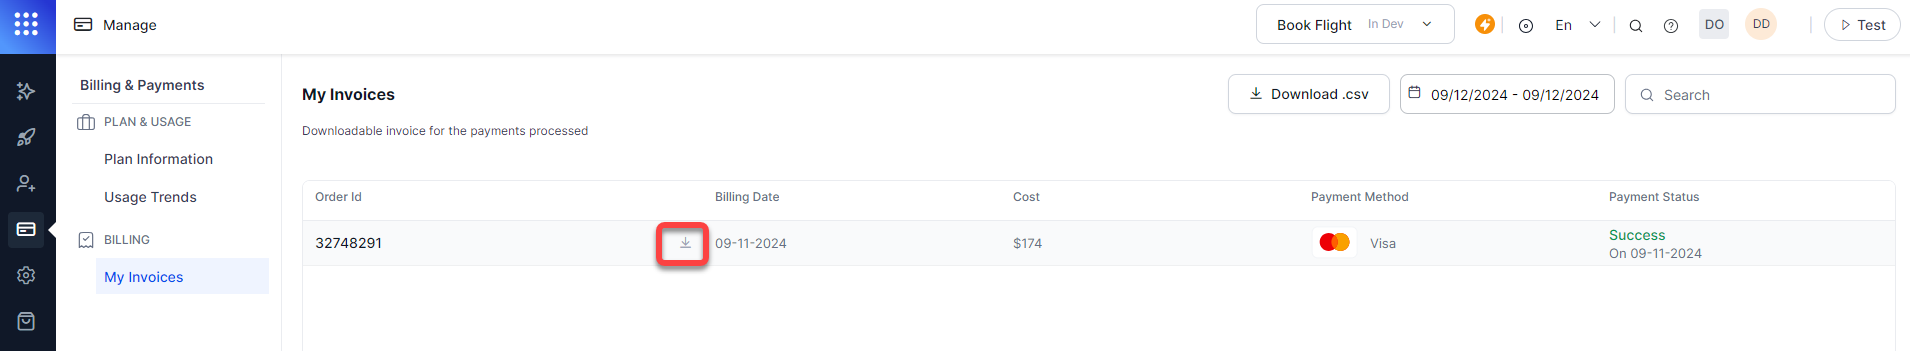
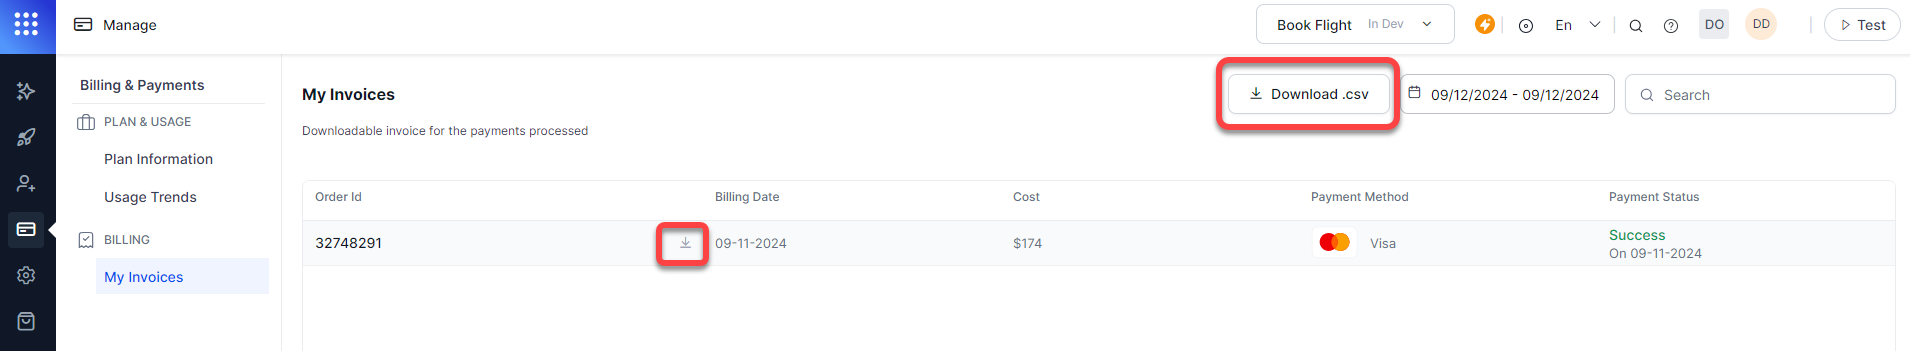
Agent AI integration updates (#67)
* updated release notes

* updated release notes

* 11.5.0 updates

* RN_3.5.0 formatting correction

* updated images

* updated images

* Rn edits

* docs updated

* updated images

* updates

* RN updates

* teams

* conversation logs

* formatting

* conversation logs

* done

* adding tocs

* toc

* table test

* table update

* formatting fixes

* link to RN

* test

* link to RN

* test md table

* RN linking

* minor update

* table

* RN links

* docs update

* fixing link issues

* done

* release notes update

* Rate limit

* minor update

* rn

* link updated

* toc

* minor updates

* 11.5.0 updates

* Indentation issue in yml file

* updating the RN links

* updating RN links

* RN_3.5.0 links update

* TOC update

* image alignment updated

* release notes updated

* images added

* api formatting

* updated images

* TOC update

* minor update

* updated doc-Defining a Table Report

* minor edits

* minor edits

* updated the doc "Bot management"

* allignment correction

* Update message-node-img2-generate-report.png

* updated images

* minor updates

* Update message-node-img2-generate-report.png

* tables

* updates

* updates

* updates

* txt update

* Update accplatform(12).png

* image revised

* revised RN

* APIs list

* minor update

* TOC update for APIs list

* apis list formatting fixes

* APIs list formatting fixes

* API list formatting

* api list

* Update accplatform(3).png

* release notes links update

* RN link fixes
[…]

Changed region(s): [[0.6178, 0.1425, 0.7414, 0.3989]]

diff --git a/docs/xo/contactcenter/integrations/talkdesk/kore-iva-integration-with-talkdesk.md b/docs/xo/contactcenter/integrations/talkdesk/kore-iva-integration-with-talkdesk.md
@@ -36,22 +36,18 @@ The following steps are initiated after a call is established between a user and
 
 This section explains the configuration steps needed to integrate Kore IVA integration with Talkdesk.
 
-### Step 1: Associate an App within an Experience Flow
+### Step 1: Create and attach a Flow with a Phone Number
 
-An _experience flow _is a step-by-step process that helps you define the end-to-end customer experience at a contact center for each communication channel. Experience Flows can be built using the Experience Flow Designer. [Know more](https://docs.kore.ai/smartassist/experience-flows/flow-designer/){:target="_blank"}.
-
-### Step 2: Attach that Experience Flow with a Phone Number
-
-A _flow_ is a step-by-step process that helps you define the end-to-end customer experience for each communication channel. You can create experience flows using the Flow Designer. [Know more.](https://docs.kore.ai/xo/flows/create-flows/#:~:text=a%20Start%20Flow-,Voice,-Chat){:target="_blank"}  
+A Flow is a sequential process to help you define the end-to-end customer experience at a contact center. A well-designed flow aims to enhance customer satisfaction by ensuring efficiency, clarity, and personalized service throughout the entire journey. You can build flows using the Flow Designer. [Learn more.](https://docs.kore.ai/xo/flows/create-flows/#:~:text=a%20Start%20Flow-,Voice,-Chat){:target="_blank"}  
 <img src="../images/flows-and-channels-phone-number-2.png" alt="flows-and-channels-phone-number" title="flows-and-channels-phone-number" style="border: 1px solid gray; zoom:80%;">
 
 **Note**: This phone number is encrypted and used in WSS URL in Audio streaming.
 
-### Step 3: Create a WSS URL
+### Step 2: Create a WSS URL
 
 When a customer calls the Talkdesk phone number, the audio stream is directed to audiosocket and a call is initiated to SmartAssist bot based on the number retrieved from the URL. The audio is streamed bidirectionally between the Kore bot and the Talkdesk end user.
 
-Create a WSS URL with botID, token ID, and phone number used in the Experience Flow:
+Create a WSS URL with botID, token ID, and phone number used in the Flow:
 
 wss://korevg-np.kore.ai/audiosocket/talkdesk/?sipuri=%2B173443xxxxx&token=xxxxxGciOiJIUzI1NiIsInR5cCI6IkpXVCJ9.eyJhcHBJZCI6ImNzL
 TFiARYEDF4LTA0ZDktNTM3MC04NTI3LWFlNjNmMjk1YmJjZiJ9.2ozN9wKNPi3A4R8HPdPUfdqBTv-JgCsxnCCXlpGfUjw&botId=st-92bbcxxx-f5c3-5ea6-ab5e-d7ebea8xxxxx&accountId=xxxxxbef6ed51db7e930d75c&agentassist=false
@@ -66,7 +62,7 @@ TFiARYEDF4LTA0ZDktNTM3MC04NTI3LWFlNjNmMjk1YmJjZiJ9.2ozN9wKNPi3A4R8HPdPUfdqBTv-Jg
     * **botId**: Bot ID of the bot you want to use – for example, st-xxxxxx-xxxx-xxxx-xxxx-xxxxxxxxxx.
     * **accountId**: Account ID of the bot owner. Unique identifier for an account.
 
-### Step 4: Configure Audio Streaming Node in Talkdesk
+### Step 3: Configure Audio Streaming Node in Talkdesk
 
 Audio streaming is the primary component for enabling voice automation. It involves streaming Talkdesk audio to the Voice Stream URL (created in [Step-3](#step-3-create-a-wss-url)) over WSS using Conversation Orchestrator. Here’s a basic flow within the Talkdesk Studio:  
 <img src="../images/talkdesk-studio-basic-flow-3.png" alt="talkdesk-studio-basic-flow" title="talkdesk-studio-basic-flow" style="border: 1px solid gray; zoom:80%;">
@@ -76,7 +72,16 @@ Audio streaming is the primary component for enabling voice automation. It invol
 3. Enter the “Voice Stream URL” in the input field created in [Step-3](#step-3-create-a-wss-url).
 4. Save and Publish the flow.
 
-### Step 5: Configure Agent Escalation Node on Talkdesk
+### Step 4: Configure Agent Escalation Node on Talkdesk
+
+This section explains both the Kore and Talkdesk side configurations for Agent Escalation.
+
+#### Kore Side Configuration
+
+For Agent Transfer and subsequent AgentAssist functionalities, configure **SIP BYE** in SmartAssist:  
+<img src="../images/sip-bye-settings.png" alt="sip-bye-settings" title="sip-bye-settings" style="border: 1px solid gray; zoom:80%;">
+
+#### Talkdesk Side Configuration
 
 For Voice Automation, Kore.ai uses the "Connect to Autopilot Voice" node of Talkdesk. Check the Exits and Preferences of this node in the screenshot below.
 
@@ -87,8 +92,10 @@ On Agent Escalation, Kore.ai creates variables that are populated to **Ring Grou
 
 <img src="../images/agent-escalation-node-preferences-ring-group-6.png" alt="agent-escalation-node-preferences-ring-group" title="agent-escalation-node-preferences-ring-group" style="border: 1px solid gray; zoom:80%;">
 
-**Note**: Kore.ai doesn’t pass any header information on Voice Automation Agent transfer. Talkdesk has a bidirectional streaming protocol. For requests of interactions to be escalated to human agents, Kore.ai uses the "Agent Escalation" node of Talkdesk. [Learn more](https://support.talkdesk.com/hc/en-us/articles/9484798498587-Conversation-Orchestrator-Streaming-Bidirectional-Audio#:~:text=If%20you%20need%20the%20call%20to%20be%20escalated%20to%20a%20live%20agent%2C%20then%20configure%20the%20%E2%80%9CEscalation%E2%80%9D%20exit%20and%20add%20an%20Assignment%20and%20Dial%20component%20step){:target="_blank"}.
+!!! note
 
-### Step 6: Testing the Studio Flow
+    Kore.ai doesn’t pass any header information on Voice Automation Agent transfer. Talkdesk has a bidirectional streaming protocol. For requests of interactions to be escalated to human agents, Kore.ai uses the "Agent Escalation" node of Talkdesk. [Learn more](https://support.talkdesk.com/hc/en-us/articles/9484798498587-Conversation-Orchestrator-Streaming-Bidirectional-Audio#:~:text=If%20you%20need%20the%20call%20to%20be%20escalated%20to%20a%20live%20agent%2C%20then%20configure%20the%20%E2%80%9CEscalation%E2%80%9D%20exit%20and%20add%20an%20Assignment%20and%20Dial%20component%20step){:target="_blank"}.
+
+### Step 5: Testing the Studio Flow
 
 Once your “Incoming call” flow is published, you can assign it to one or several phone numbers. A phone number, on the other hand, can only be assigned to one “Incoming call” flow. In this step, you can assign a phone number to the Talkdesk flow and test the automation. [Learn more](https://studio.talkdesk.com/docs/assigning-a-flow-to-a-number){:target="_blank"}.

diff --git a/docs/xo/searchai/content-extraction/extraction.md b/docs/xo/searchai/content-extraction/extraction.md
@@ -34,33 +34,45 @@ You can also use the logical **AND operator** to apply multiple rules to filter 
 
 **Extraction Model**: Select the extraction model from the drop-down menu. The extraction model defines the technique applied to break down large pieces of textual information into manageable chunks. We currently support the following extraction models.
 
-**Text Extraction Model**
+### **Text Extraction Model**
 
 The Text Extraction Model combines natural language processing (NLP) and machine learning techniques. It is based on the concept of tokenization, where the text is segmented into smaller units. The model undergoes training to identify and extract the most suitable chunks relevant to the search queries.
 
-**Configuration**: Use the **chunk size** field to define the size of a single chunk. This field can help optimize the relevance of the content retrieved for answer generation. Choose the value of this field depending on various factors, like the structure and type of content, type of expected user queries, type of embedding models used, etc.
+**Configuration**: Use the **chunk size** field  to define the size of a single chunk. This field can help optimize the relevance of the content retrieved for answer generation. Choose the value of this field depending on various factors, like the structure and type of content, type of expected user queries, type of embedding models used, etc. 
 
 * When **Chunk Size** is set to **pages**, every page is treated as a single chunk. 
 * When **Chunk Size** is set to **Chunk Tokens**, chunks are prepared using the following two parameters:
-    *  **Tokens**: Maximum number of tokens that can be present in a chunk. This field can take a maximum value of 1000. A smaller chunk will result in a larger number of chunks and similarly, a larger chunk will result in a lesser number of chunks. An optimal  
+    *  **Tokens**: Maximum number of tokens that can be present in a chunk. This field can take a maximum value of 1000. The optimal number depends on the nature of the content. Smaller chunks might be used for detailed, granular tasks, whereas larger chunks might be necessary for understanding context.
     * **Chunk Overlap**: Number of tokens that should overlap between two consecutive chunks.
 
-**Layout Aware Extraction (BETA)**
+### **Layout Aware Extraction (BETA)**
+
 Layout-aware chunk extraction is a strategy used to extract data by considering the content's layout and structure. This method allows for the customization of data extraction based on the specific layout or format of the content, which can improve the precision of the extracted information. Configuring the strategy according to specific layout requirements makes it possible to extract chunks of data more effectively, aligning the strategy to the document characteristics. This provides flexibility and granular control over the extraction process, ultimately leading to more accurate and relevant data retrieval for answer generation or other purposes. 
 
 The layout-aware extraction method identifies objects in documents by combining OCR technology, layout detection models, and layout awareness rules. This approach improves SearchAssist's ability to comprehend tables, graphs, and charts in documents and generate answers using this information.
 
-**Configuration**: Choose the appropriate **template** for content extraction. Use examples to customize the content format according to the template for optimum extraction results.
+**Configuration**: Choose the appropriate **template** for content extraction. Use examples to customize the content format according to the template for optimum extraction results. 
+
 * **General:** Use the **General** template to extract content from **complex PDFs and docx** files, including tables and images. 
-* **Table**: Use the **Table** template to extract content and tables from HTML pages.
 
 ![Layout Aware](../images/layout-aware-templates.png "Layout Aware Templates")
-Configure the strategy as per your needs and click the **Save** button. By default, as soon as a strategy is created, it is automatically enabled. 
+Configure the strategy as per your needs and click the **Save** button. 
 
-Configure the strategy according to your needs and click the Save button. As soon as a strategy is created, it is automatically enabled by default.
+### **Advanced HTML Extraction**
+
+This strategy is specially designed to extract data from tables and images in HTML files along with textual content. 
+
+**Configuration**: 
+
+**Chunk Method Template**: Choose the appropriate template for content extraction.
+
+* **General**: This template identifies different components and classes within an HTML document and generates chunks based on them. Tables and images present between the content are also extracted and stored as chunks, which are then used to present answers to users.
+* **Token-Based:** This template generates chunks based on the token size configuration. Any images present between the content are also extracted and stored in the chunk.
+* **Tokens**:  The number of tokens to be present in each chunk. This value can vary between 100 and 1000 and the default value is 300. 
+* **Chunk Overlap**: The number of tokens that can overlap between adjacent chunks. This field can take values between 10 and 100. 
 
 !!! note
-    Creating a strategy enables it but does not automatically initiate the extraction process. Use the Train option to initiate the extraction process.  
+    A strategy is automatically enabled as soon as it is created. However, creating a strategy does not automatically initiate the extraction process. Use the **Train** option to initiate the extraction process.   
 
 ## Deleting a Strategy
 

diff --git a/docs/xo/manage-assistant/plan-and-usage/trial-overview.md b/docs/xo/manage-assistant/plan-and-usage/trial-overview.md
@@ -1,0 +1,59 @@
+
+# Trial Overview
+Our trial program allows users to experience the full capabilities of our enterprise software solutions before committing to a subscription. We offer trials for Automation AI and Contact Center AI, with options to explore Agent AI and Search AI features. This document outlines the available trials, their durations, features, and important considerations to help users make an informed decision.
+
+## Product Options
+
+* Automation AI and Contact Center AI: Click **Try Now** to start a trial.
+* Agent AI and Search AI: Click **Contact Us** to express interest.  
+<img src="../images/trial-overview.png" alt="trial" title="trial" style="border:1px solid gray; zoom:70%;">
+
+## Trial Details
+
+### Automation AI
+
+* Duration: 14 days
+* Features: Advanced Automation AI SKU
+* Limits:
+    * 2000 sessions
+    * 2000 Kore Voice Gateway minutes
+    * 100 document pages (Answers Module)
+    * 10,000 Search queries (based on uploaded documents)
+
+
+### Contact Center AI
+
+* Duration: 30 days
+* Features: Advanced SKU
+* Limits:
+    * 5 Agent seats (concurrent)
+    * 2000 Kore Voice Gateway minutes
+
+## Usage Flexibility
+
+* Each app created uses the selected module's trial plan.
+* Users can switch between trial or subscription plans for different products during the trial or subscription period.
+* Example: User A can create App1 with Automation AI trial, then switch to Contact Center AI trial.  
+
+!!! note
+
+        Automation AI subscription (trial or paid) includes basic SearchAI features. Full functionality requires the Advanced RAG Add-on.
+
+  
+
+## Trial Expiration
+
+* Trial apps stop responding to end-users.
+* Users retain platform access for building and deploying apps.
+* Publishing a bot initiates the subscription process.
+
+
+### Multiple Module Trials
+
+* Trials for different modules run independently.
+* Users can start trials for additional modules at any time during an active trial.
+
+### Feature Availability
+
+* Expired module trials restrict related features for end-user interaction.
+* Example: Expired Automation AI trial disables Dialog Tasks and SearchAI consumption for end users.

diff --git a/docs/xo/administration/billing.md b/docs/xo/administration/billing.md
@@ -15,21 +15,12 @@ The Billing sessions are calculated based on
 
 ### Orders & Invoices
 
-This section displays the history of Orders and Invoices and includes the following fields:
+This section displays the history of Orders and Invoices and includes the fields as shown in the image:
 
-* Order ID
-* Order Date
-* Plan Name
-* Order Type
-* Order Status
-* Amount
-* Comments
-* Payment Method
-* Invoice
+<img src="../images/billing-img1.png" alt="Download invoices" title="Download invoices" style="border: 1px solid gray;zoom:70%;"/>
 
 You have the option to download the Invoice from the invoice field.
 
-<img src="../images/billing-img1.png" alt="Download invoices" title="Download invoices" style="border: 1px solid gray;zoom:70%;"/>
 
 !!! Note
 

diff --git a/docs/xo/release-notes/11.x/search-ai.md b/docs/xo/release-notes/11.x/search-ai.md
@@ -6,7 +6,9 @@ This document provides information on the feature updates and enhancements intro
 
 <u> Patch Release </u>
 
-This update includes bug fixes.
+### Advanced Content Extraction from Web Pages
+
+With this release, Search AI introduces advanced support for extracting content from images and tables embedded in web pages. Using advanced extraction technologies, Search AI can now analyze and extract text from image files and complex, structured tables, providing a more comprehensive approach to processing web-based content. This enhancement significantly enhances the application’s ability to index and search diverse content formats.
 
 <hr>
 

diff --git a/docs/xo/manage-assistant/plan-and-usage/invoices.md b/docs/xo/manage-assistant/plan-and-usage/invoices.md
@@ -16,7 +16,7 @@ To view the invoices, follow these steps:
     * Cost
     * Payment Method
     * Payment Status
-4. You can download any invoice as a PDF format by clicking  <img src="../images/download.png" alt="download" title="download" style="border:1px solid gray; zoom:70%;">.   
+4. You can download any invoice as a PDF format by clicking  <img src="../images/download.png" alt="download" title="download" style="border:1px solid gray; zoom:70%;">. You can also export the  billing report as a .csv file.  
 
  <img src="../images/invoices1.png" alt="invoices" title="invoices" style="border:1px solid gray; zoom:70%;">
 
